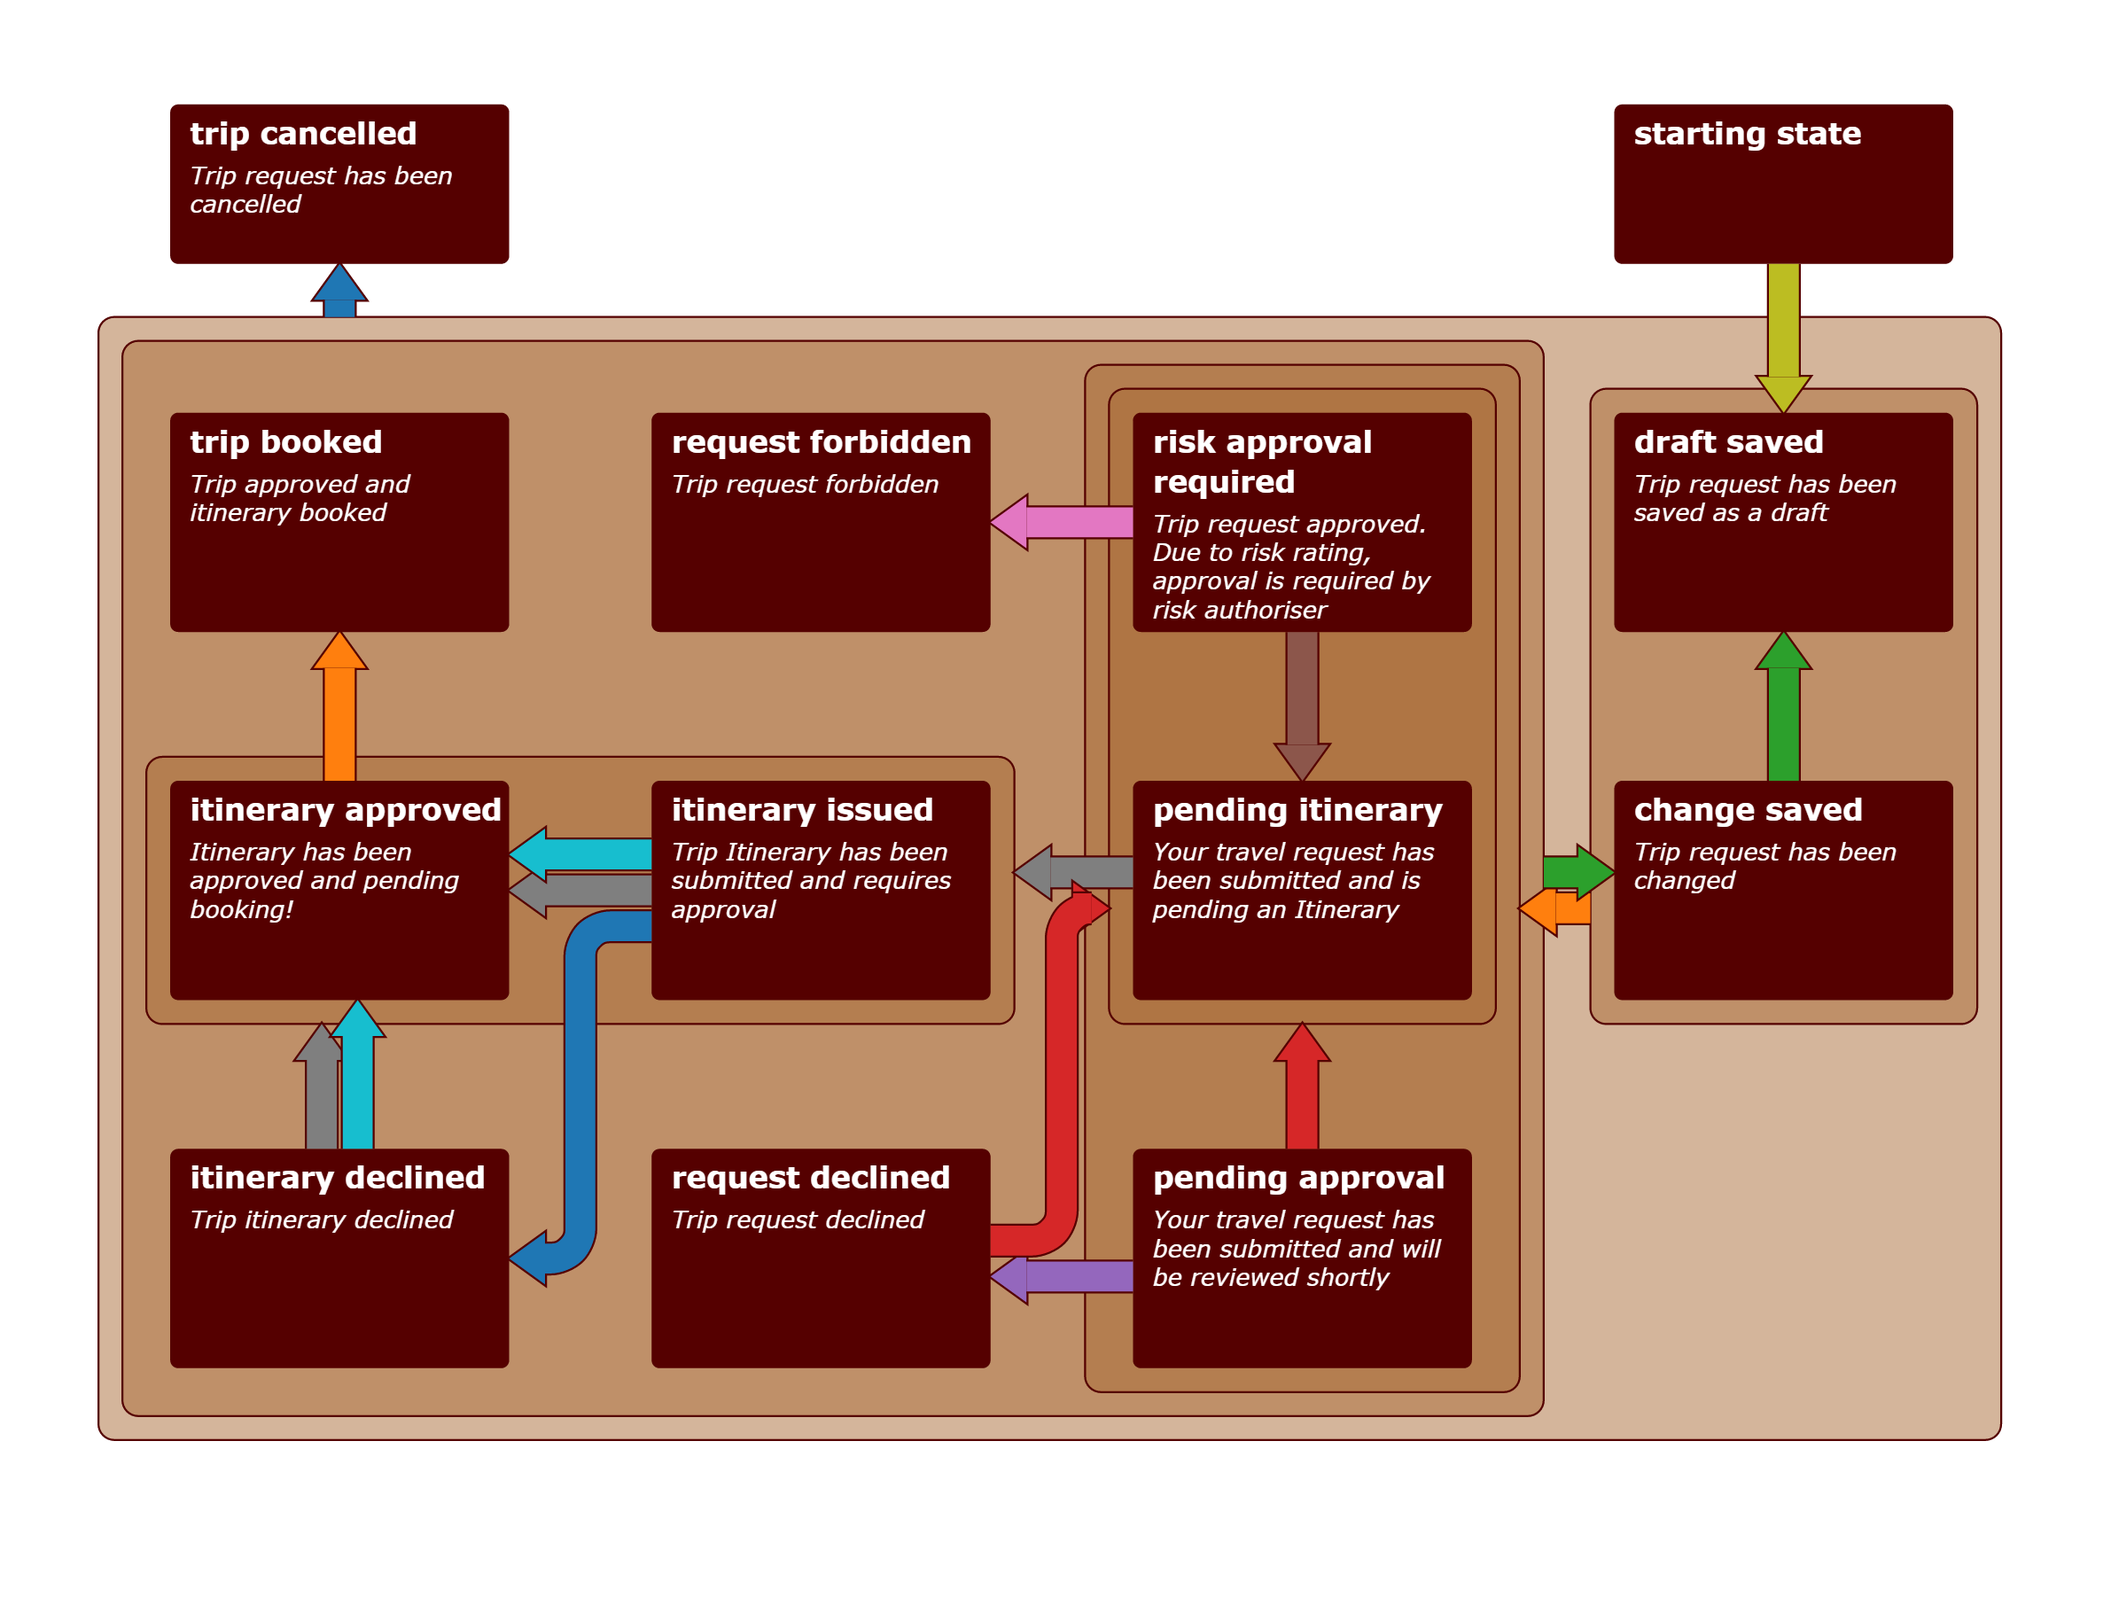
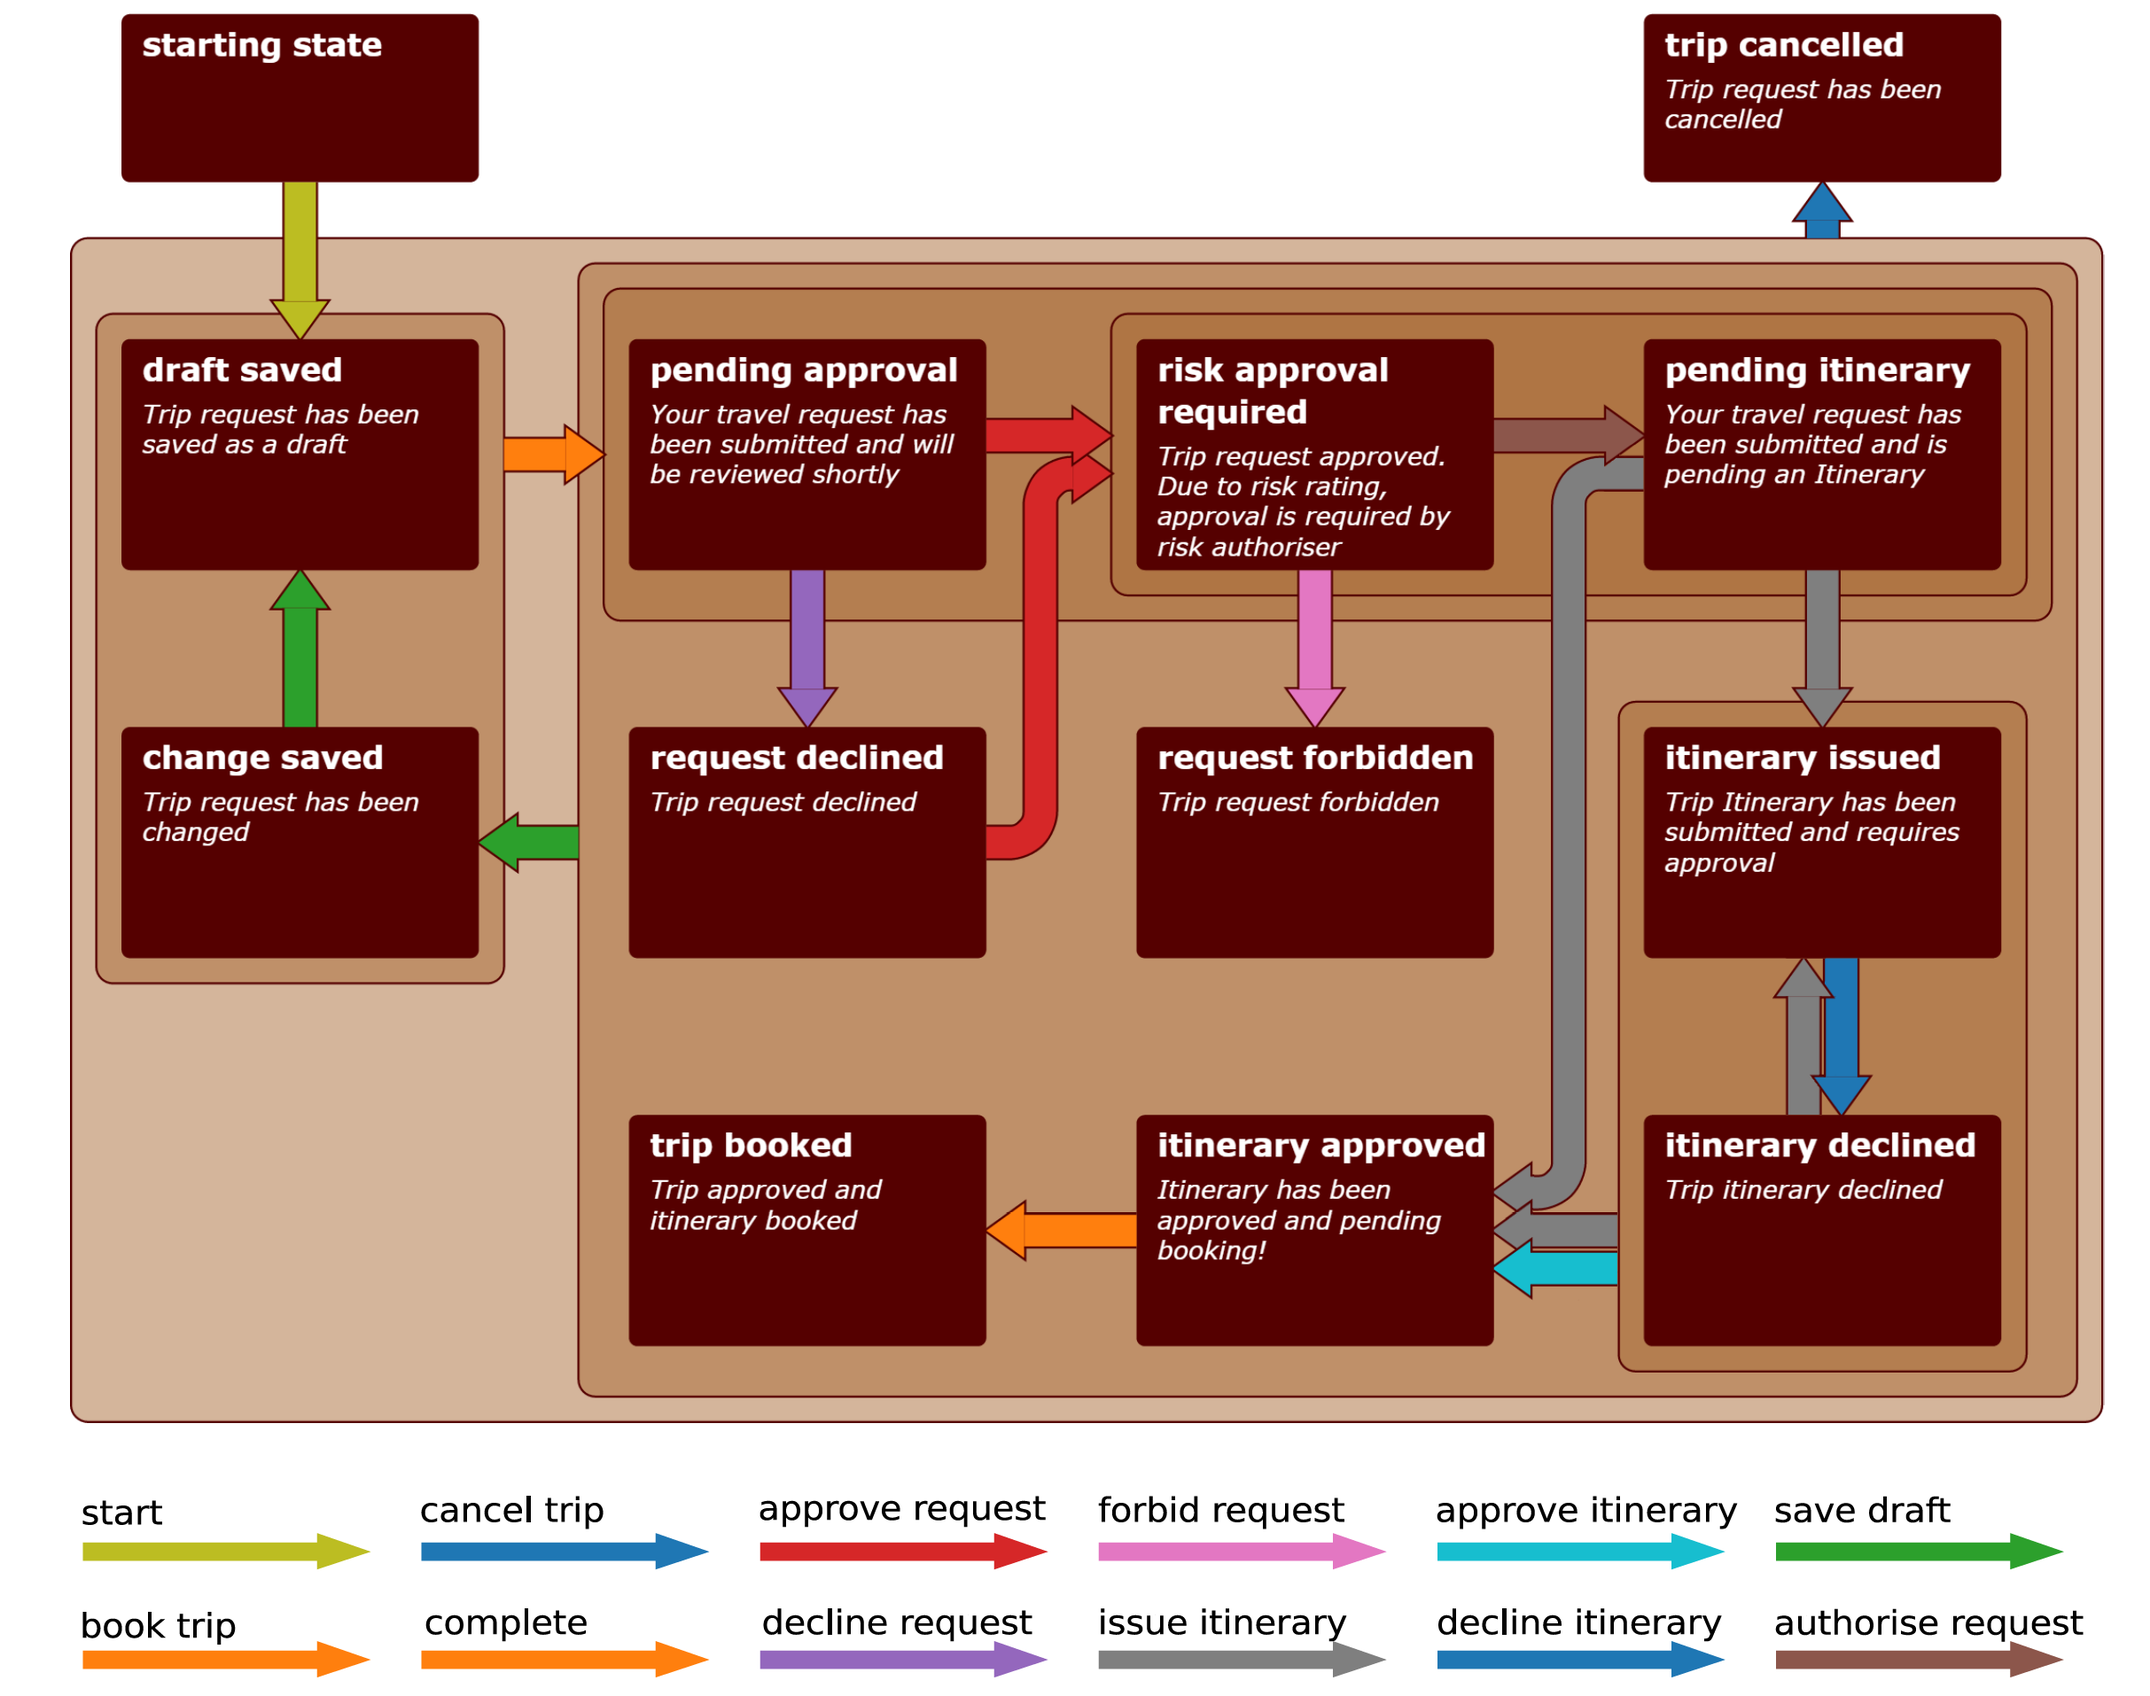
all  real graphs

diff --git a/README.md b/README.md
@@ -24,5 +24,12 @@ Then the gridlay2dense.py takes the .mod file as input and produces a .dense fil
 Then the dense2bee.py takes the .dense file as input and produces a .bee file as output,
 then the .bee file is solved using the BumbleBEE solver.
 
+The following are examples of graph layouts produced by the models:
 ![alt tag](https://raw.githubusercontent.com/Vahany/HqUcGl-of-Grouped-Networks/master/images/composers.PNG)
+
+![alt tag](https://raw.githubusercontent.com/Vahany/HqUcGl-of-Grouped-Networks/master/images/state_machine.PNG)
+
+![alt tag](https://raw.githubusercontent.com/Vahany/HqUcGl-of-Grouped-Networks/master/images/tetris_bug.PNG)
+
+![alt tag](https://raw.githubusercontent.com/Vahany/HqUcGl-of-Grouped-Networks/master/images/les_miserables_lns.PNG)
 
